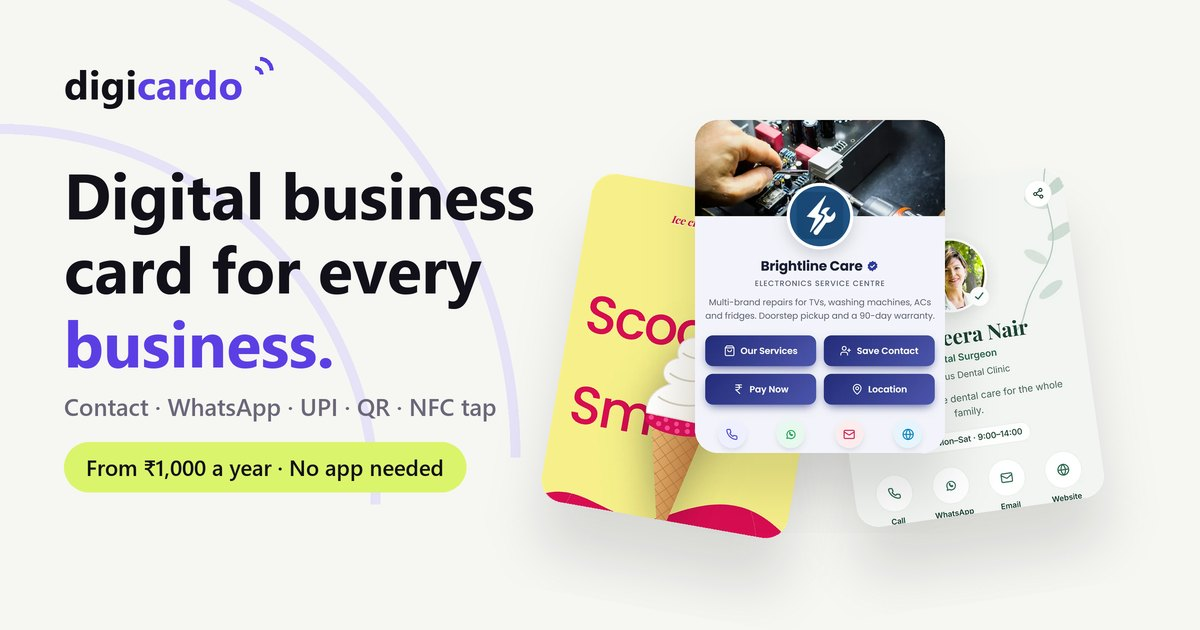
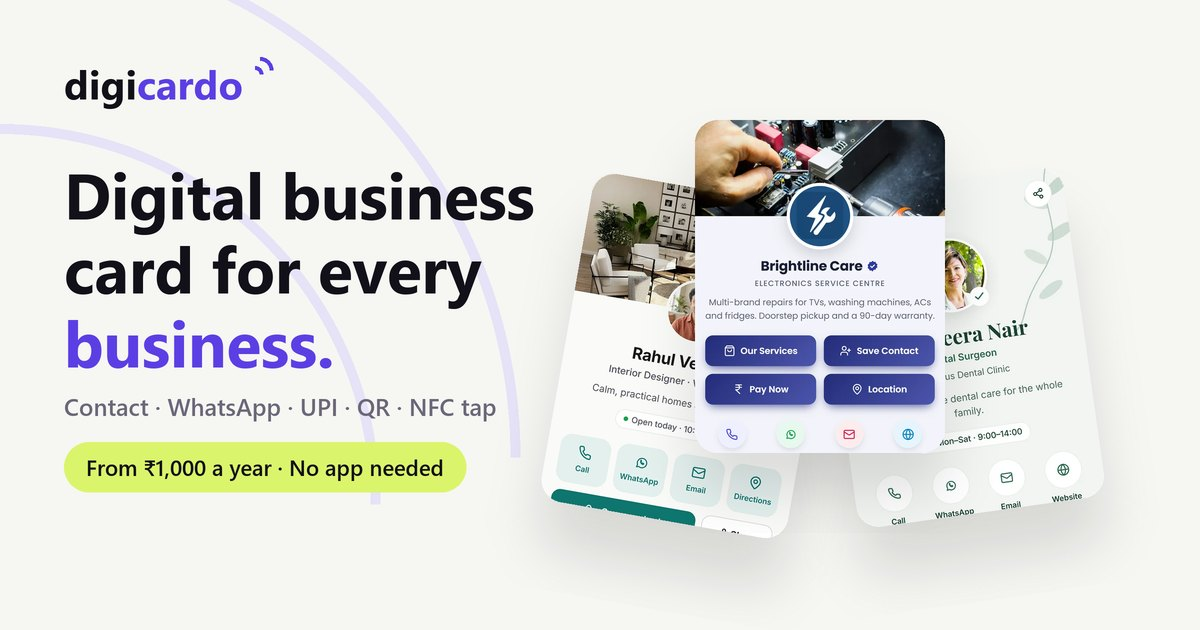
fix: keep account switches from reverting; landing tweaks
- BFF drops cookies from responses the API flags X-Session-Retired, so a
  late request can't put the browser back on the old (admin) account.
- Landing: remove the Poster (Scoops & Smiles) template and the small
  keyword label; the headline is the H1 again; larger nav logo; share
  image rebuilt without the Poster card.

Changed region(s): [[0.4317, 0.2714, 0.6783, 0.8746]]

diff --git a/src/components/landing/v2/Top.tsx b/src/components/landing/v2/Top.tsx
@@ -71,7 +71,7 @@ export function Nav() {
         )}
       >
         <Link href="/" aria-label="Digicardo home" onClick={() => setOpen(false)}>
-          <DigicardoLogo size="sm" />
+          <DigicardoLogo size="md" className="sm:[&_[role=img]]:text-[28px]" />
         </Link>
         <nav aria-label="Main" className="hidden items-center gap-0.5 lg:flex">
           {LINKS.map((l) => (
@@ -142,7 +142,6 @@ export function Nav() {
 // ── Hero: heading + a fan of real templates ───────────────────────────────────────
 
 export const TEMPLATES = [
-  { src: "/landing/tpl-poster.webp", name: "Poster", who: "Scoops & Smiles · Ice cream parlour" },
   { src: "/landing/tpl-classic.webp", name: "Classic", who: "Rahul Verma · Interior designer" },
   { src: "/landing/tpl-showcase.webp", name: "Showcase", who: "Brightline Core · Electronics" },
   { src: "/landing/tpl-botanical.webp", name: "Botanical", who: "Dr. Meera Nair · Dental clinic" },
@@ -150,24 +149,25 @@ export const TEMPLATES = [
 ] as const;
 
 const FAN = [
-  { r: -16, y: 58 },
-  { r: -8, y: 16 },
-  { r: 0, y: 0 },
-  { r: 8, y: 16 },
-  { r: 16, y: 58 },
+  { r: -12, y: 44 },
+  { r: -4, y: 8 },
+  { r: 4, y: 8 },
+  { r: 12, y: 44 },
 ];
+/** Position of card i relative to the middle of the fan (…, -0.5, 0.5, …). */
+const fanOffset = (i: number) => i - (TEMPLATES.length - 1) / 2;
 
 function FanCard({ i, wide, progress }: { i: number; wide: boolean; progress: MotionValue<number> }) {
   const reduce = useReducedMotion();
   const t = TEMPLATES[i];
-  const off = i - 2;
-  const gap = wide ? 172 : 58;
+  const off = fanOffset(i);
+  const gap = wide ? 172 : 64;
   const f = FAN[i];
   // While the hero scrolls away the fan opens up a little more.
   const spread = useTransform(progress, [0, 1], [0, off * (wide ? 70 : 24)]);
   const lift = useTransform(progress, [0, 1], [0, -Math.abs(off) * 30]);
   return (
-    <motion.div className="absolute left-1/2 top-0" style={{ x: spread, y: lift, zIndex: 10 - Math.abs(off) }}>
+    <motion.div className="absolute left-1/2 top-0" style={{ x: spread, y: lift, zIndex: Math.round(10 - Math.abs(off) * 2) }}>
       <motion.div
         className="group relative -ml-[var(--w)] w-[calc(var(--w)*2)] [--w:62px] sm:[--w:104px]"
         initial={reduce ? false : { x: 0, y: 160, rotate: 0, opacity: 0, scale: 0.7 }}
@@ -176,7 +176,7 @@ function FanCard({ i, wide, progress }: { i: number; wide: boolean; progress: Mo
         whileHover={reduce ? undefined : { y: f.y * (wide ? 1 : 0.5) - 22, rotate: f.r * 0.4, scale: 1.04, transition: { type: "spring", stiffness: 300, damping: 20 } }}
       >
         <div className="relative aspect-[3/4] overflow-hidden rounded-[18px] bg-white shadow-[0_30px_60px_-24px_rgba(18,16,24,0.45),0_0_0_1px_rgba(18,16,24,0.06)] sm:rounded-[26px]">
-          <Image src={t.src} alt={`${t.name} template — ${t.who}`} fill sizes="(min-width: 640px) 208px, 124px" className="object-cover object-top" priority={i === 2} />
+          <Image src={t.src} alt={`${t.name} template — ${t.who}`} fill sizes="(min-width: 640px) 208px, 124px" className="object-cover object-top" priority={i === 1} />
           <span className="pointer-events-none absolute inset-0 bg-[linear-gradient(135deg,rgba(255,255,255,0.35),transparent_40%)]" />
         </div>
       </motion.div>
@@ -206,11 +206,8 @@ export function Hero() {
       <BackdropWaves className="-right-56 bottom-0 h-[720px] w-[720px] -scale-x-100 text-[#121018]/[0.05]" />
 
       <motion.div style={{ y: textY, opacity: textOpacity }} className="relative mx-auto max-w-[980px] text-center">
-        <h1 className="mb-4 inline-flex items-center rounded-full bg-white/80 px-3.5 py-1.5 text-[11px] font-semibold uppercase tracking-[0.14em] text-[#5B3FE4] ring-1 ring-[#5B3FE4]/15 sm:text-[12px]">
-          Digital business card &amp; NFC visiting card
-        </h1>
         <WordReveal
-          as="p"
+          as="h1"
           text={"A smart card for\nevery business."}
           accent={{ smart: V.violet }}
           delay={0.1}

diff --git a/src/components/landing/v2/Story.tsx b/src/components/landing/v2/Story.tsx
@@ -68,8 +68,11 @@ function Traveller({
 
 // ── Scene 1: hero fan → stack → showcase cascade ──────────────────────────────────
 
-const FAN_R = [-12, -6, 0, 6, 12];
-const FAN_DY = [30, 8, 0, 8, 30];
+const FAN_R = [-10, -3.5, 3.5, 10];
+const FAN_DY = [26, 4, 4, 26];
+const fanOffset = (i: number) => i - (TEMPLATES.length - 1) / 2;
+/** The card that flies in first and the others slide out from. */
+const LEAD = 1;
 
 function TemplateCard({ i, priority }: { i: number; priority?: boolean }) {
   const t = TEMPLATES[i];
@@ -97,11 +100,11 @@ function HeroShowcaseDesktop() {
   const W = Math.round(clamp(Math.min(w * 0.13, (h - 500) / 1.45), 120, 210));
   const H = Math.round((W * 4) / 3);
   const headTop = 96;
-  const fanY = headTop + 44 + fs * 2.1 + 40 + H / 2; // 44 = the small H1 label above the headline
+  const fanY = headTop + fs * 2.1 + 56 + H / 2;
   const subTop = fanY + H / 2 + 56;
 
   const posesFor = (i: number): Pose[] => {
-    const off = i - 2;
+    const off = fanOffset(i);
     const fan = { x: w / 2 + off * W * 0.82, y: fanY + FAN_DY[i] * (W / 190), r: FAN_R[i], s: 1 };
     const stack = { x: w / 2 + off * 3, y: h * 0.56, r: off * 2.5, s: 0.9 };
     const cascade = { x: w * 0.5 + W * 0.6 + i * W * 0.56, y: h * 0.34 + i * h * 0.075, r: 0, s: 1.08 };
@@ -125,11 +128,8 @@ function HeroShowcaseDesktop() {
         {/* Hero copy */}
         <motion.div style={{ opacity: heroOpacity, y: heroY }} className="absolute inset-x-0 top-0 z-30" aria-hidden={phase === 1}>
           <div className="relative mx-auto max-w-[980px] px-6 text-center" style={{ paddingTop: headTop }}>
-            <h1 className="mb-4 inline-flex items-center rounded-full bg-white/80 px-3.5 py-1.5 text-[12px] font-semibold uppercase tracking-[0.14em] text-[#5B3FE4] ring-1 ring-[#5B3FE4]/15">
-              Digital business card &amp; NFC visiting card
-            </h1>
             <WordReveal
-              as="p"
+              as="h1"
               text={"A smart card for\nevery business."}
               accent={{ smart: V.violet }}
               delay={0.1}
@@ -196,27 +196,28 @@ function HeroShowcaseDesktop() {
 
         {/* The travelling cards */}
         {TEMPLATES.map((t, i) => {
-          const off = i - 2;
-          const z = phase === 1 ? 10 + i : 15 - Math.abs(off);
+          const off = fanOffset(i);
+          const lead = i === LEAD;
+          const z = phase === 1 ? 10 + i : lead ? 16 : Math.round(15 - Math.abs(off) * 2);
           return (
             <Traveller key={t.name} p={p} stops={stops} poses={posesFor(i)} w={W} h={H} z={z} lag={i * 0.018}>
               <motion.div
                 className="h-full w-full"
                 // Intro: the middle card flies in, then the others slide out from behind it.
                 initial={
-                  off === 0
+                  lead
                     ? { x: w * 0.32, y: h * 0.45, rotate: 28, opacity: 0 }
                     : { x: -off * W * 0.82, y: -FAN_DY[i] * (W / 190), rotate: -FAN_R[i], opacity: 0 }
                 }
                 animate={{ x: 0, y: 0, rotate: 0, opacity: 1 }}
                 transition={
-                  off === 0
+                  lead
                     ? { type: "spring", stiffness: 55, damping: 14, delay: 0.15 }
                     : { type: "spring", stiffness: 80, damping: 15, delay: 1.0 + Math.abs(off) * 0.12, opacity: { duration: 0.2, delay: 0.95 + Math.abs(off) * 0.12 } }
                 }
                 whileHover={{ y: -12, transition: { type: "spring", stiffness: 300, damping: 20 } }}
               >
-                <TemplateCard i={i} priority={off === 0} />
+                <TemplateCard i={i} priority={lead} />
               </motion.div>
             </Traveller>
           );

diff --git a/src/components/landing/v2/Middle.tsx b/src/components/landing/v2/Middle.tsx
@@ -97,14 +97,14 @@ export function StatementSection() {
       </div>
 
       <motion.ul
-        className="mx-auto mt-14 grid max-w-[1180px] grid-cols-3 gap-3 sm:mt-20 sm:gap-4 lg:grid-cols-6"
+        className="mx-auto mt-14 grid max-w-[1000px] grid-cols-3 gap-3 sm:mt-20 sm:gap-4 lg:grid-cols-5"
         initial={reduce ? false : "stack"}
         whileInView="row"
         viewport={{ once: true, margin: "0px 0px -18% 0px" }}
       >
         {cards.map((card, i) => {
           // In the stack every card sits on top of the middle column, slightly fanned.
-          const centre = wide ? 2.5 : 1;
+          const centre = wide ? (cards.length - 1) / 2 : 1;
           const col = wide ? i : i - 1;
           const shift = (centre - col) * 100;
           return (

diff --git a/src/app/api/bff/v1/[...path]/route.ts b/src/app/api/bff/v1/[...path]/route.ts
@@ -166,6 +166,11 @@ async function handleProxy(
     } else {
       rawSetCookies = splitSetCookies(upstreamResponse.headers.get("set-cookie"));
     }
+    // The request ran on a session that an account switch has since replaced: its cookies would
+    // put the browser back on the old account, so they are dropped.
+    if (upstreamResponse.headers.get("x-session-retired")) {
+      rawSetCookies = [];
+    }
 
     // Handle 204 No Content / 304 Not Modified null body responses
     if (responseStatus === 204 || responseStatus === 304) {
